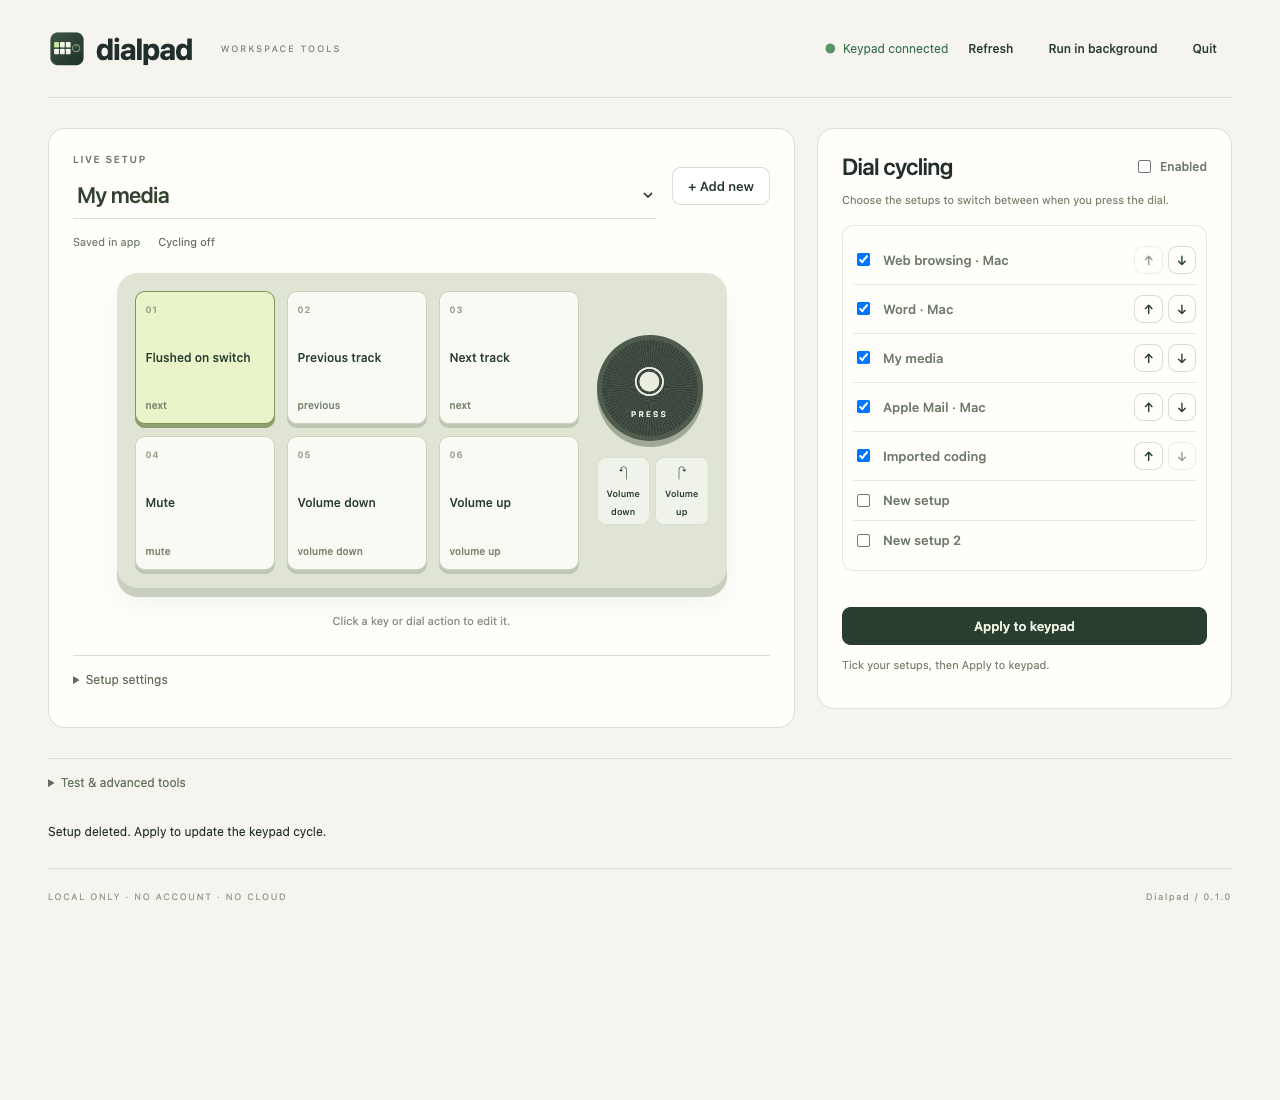
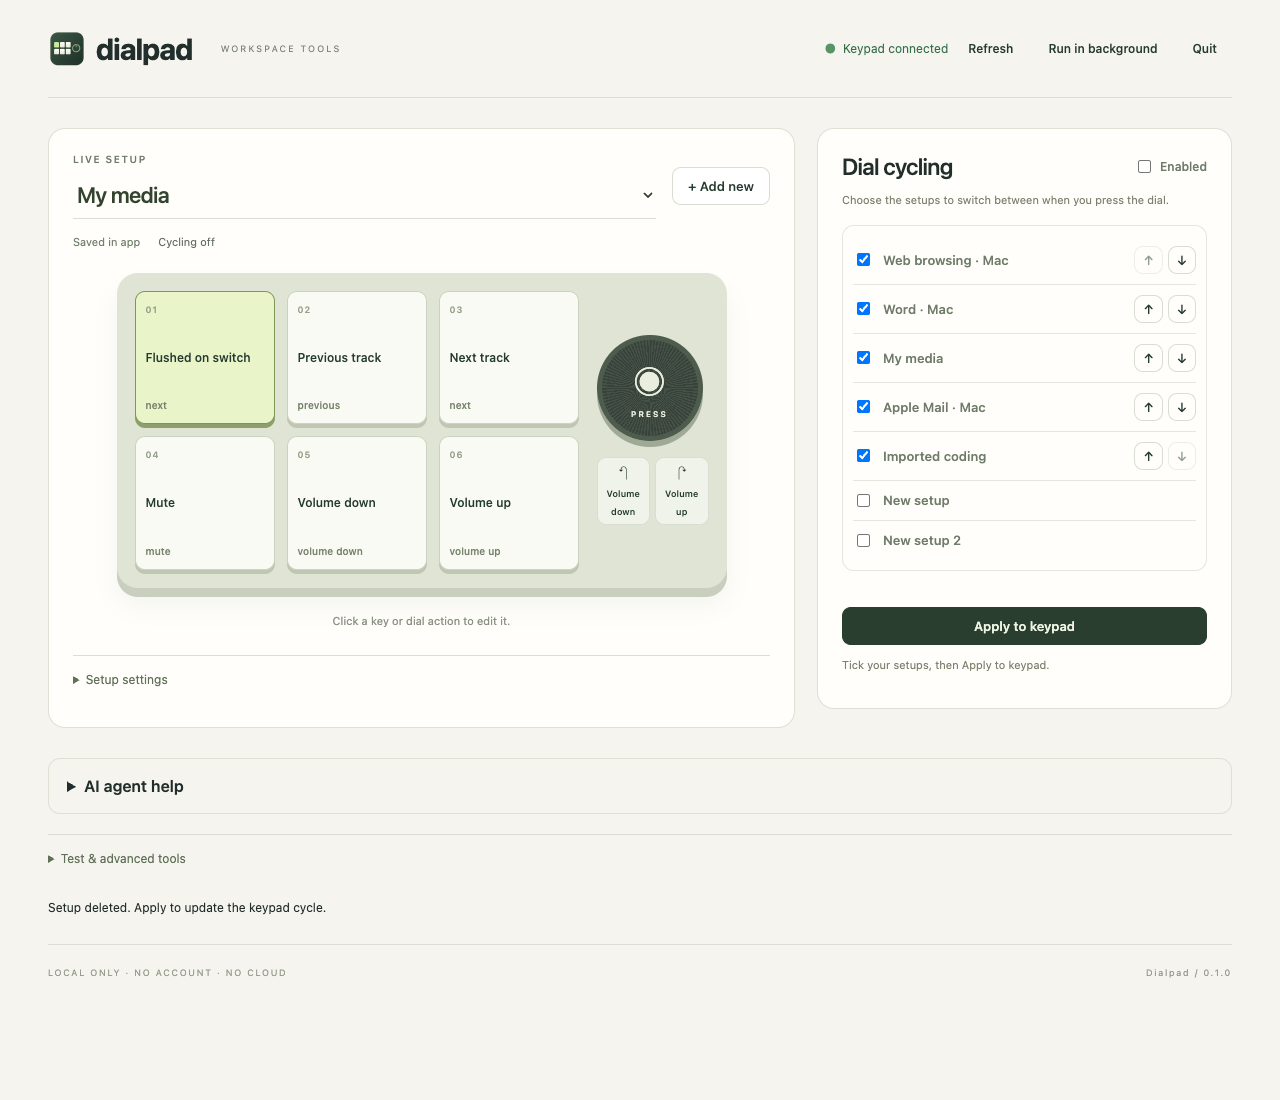
Record successful native Windows window and updater validation

Changed region(s): [[0.0312, 0.7109, 0.25, 0.8345]]

diff --git a/research/PLATFORM-REVIEW.md b/research/PLATFORM-REVIEW.md
@@ -1,6 +1,6 @@
 # Mac / Windows review — 2026-09-16
 
-The shared profile validation, encoder, authenticated localhost API and reviewed hardware snapshots remain platform-independent. The Mac build was tested on this Apple Silicon Mac. Windows code was reviewed and tested using mocked operating-system calls; a Windows machine and keypad are still needed to validate actual HID programming and desktop behavior.
+The shared profile validation, encoder, authenticated localhost API and reviewed hardware snapshots remain platform-independent. The Mac build was tested on this Apple Silicon Mac. The Windows package was also executed on a Windows GitHub runner: native WebView2 rendering, global shortcuts, hide/reopen, single-instance behavior and shutdown passed. Physical Windows HID programming still requires a connected keypad test.
 
 | Finding | Resolution | Evidence |
 | --- | --- | --- |
@@ -12,3 +12,25 @@ The shared profile validation, encoder, authenticated localhost API and reviewed
 The Mac app remains signed with the configured Apple Development certificate. A Developer ID distribution build and notarization are separate from this local build. Build the Windows package on Windows; this Mac does not cross-compile a Windows executable. The Mac12 deployment target is a binary compatibility target, not a claim of runtime testing on Mac12.
 
 Windows hotkey references: [RegisterHotKey](https://learn.microsoft.com/en-us/windows/win32/api/winuser/nf-winuser-registerhotkey), [upstream Tcl message loop](https://github.com/tcltk/tcl/blob/core-8-6-branch/win/tclWinNotify.c). libusb build configuration and source list come from the vendored upstream Xcode/config.h and libusb/Makefile.am. No general keyboard monitor or hardware writes were used for validation.
+
+## Native Windows window and updater — 0.1.1
+
+The same local editor now renders in a WinForms/WebView2 window. Both launcher
+and helper use the Windows GUI subsystem, verified from their PE headers. The
+session is passed privately on stdin. The tray shows the current setup and
+Open/Quit actions; closing the editor keeps the companion running. Tk remains
+hidden for gesture timers and clipboard services. Native navigation is limited
+to the app origin; popup windows and embedded-frame navigation are blocked.
+
+The Microsoft SDK is downloaded from NuGet with a pinned SHA-256 and its licence
+is bundled. The runtime is a separate Microsoft prerequisite. The Windows runner
+loaded the actual packaged editor and produced [this screenshot](windows-preview.png).
+No keyboard events or USB writes were generated by these checks.
+
+The PowerShell updater was exercised on Windows against built release archives,
+with network responses and shortcut COM calls replaced by fixtures. First install,
+repeat update, preserving saved settings and previous binaries, checksum failure
+and shortcut target paths passed. Real native startup is separately tested. No
+administrator elevation, service or scheduled task is used by the updater.
+
+Verified CI candidate: https://github.com/lukebills/dialpad/actions/runs/35055382173

diff --git a/research/VALIDATION.md b/research/VALIDATION.md
@@ -124,3 +124,18 @@ background and hotkey-registration smoke. Tests use isolated settings and
 mocked/blocked USB writes. Physical rapid-press behavior needs a user test;
 Windows integration changes have not been run on a Windows host in this update.
 The public 0.1.0 release has not been replaced by this local rebuild.
+
+## Windows native editor and updater — 0.1.1
+
+CI run 35055382173 passed both platform builds and all 67 unit tests (one
+POSIX-only test skipped on Windows). The real Windows EXE passed native WebView2
+rendering (six visible keys), hide/reopen, global shortcut registration,
+single-instance reopen, read-only discovery, bundled agent guide and clean quit.
+Both Windows PE executables were verified as GUI subsystem, with no console.
+WebView2 profile cleanup is allowed up to ten seconds after host shutdown.
+
+The real updater script passed isolated Windows tests for install, repeat update,
+settings preservation, retaining old versions, checksum rejection and shortcut
+targets. Network and COM shortcut creation are mocked in this test; it consumes
+the same ZIP/checksum assets produced for release. The Windows native screenshot
+was visually reviewed. Physical keypad writes and input delivery were not tested.
